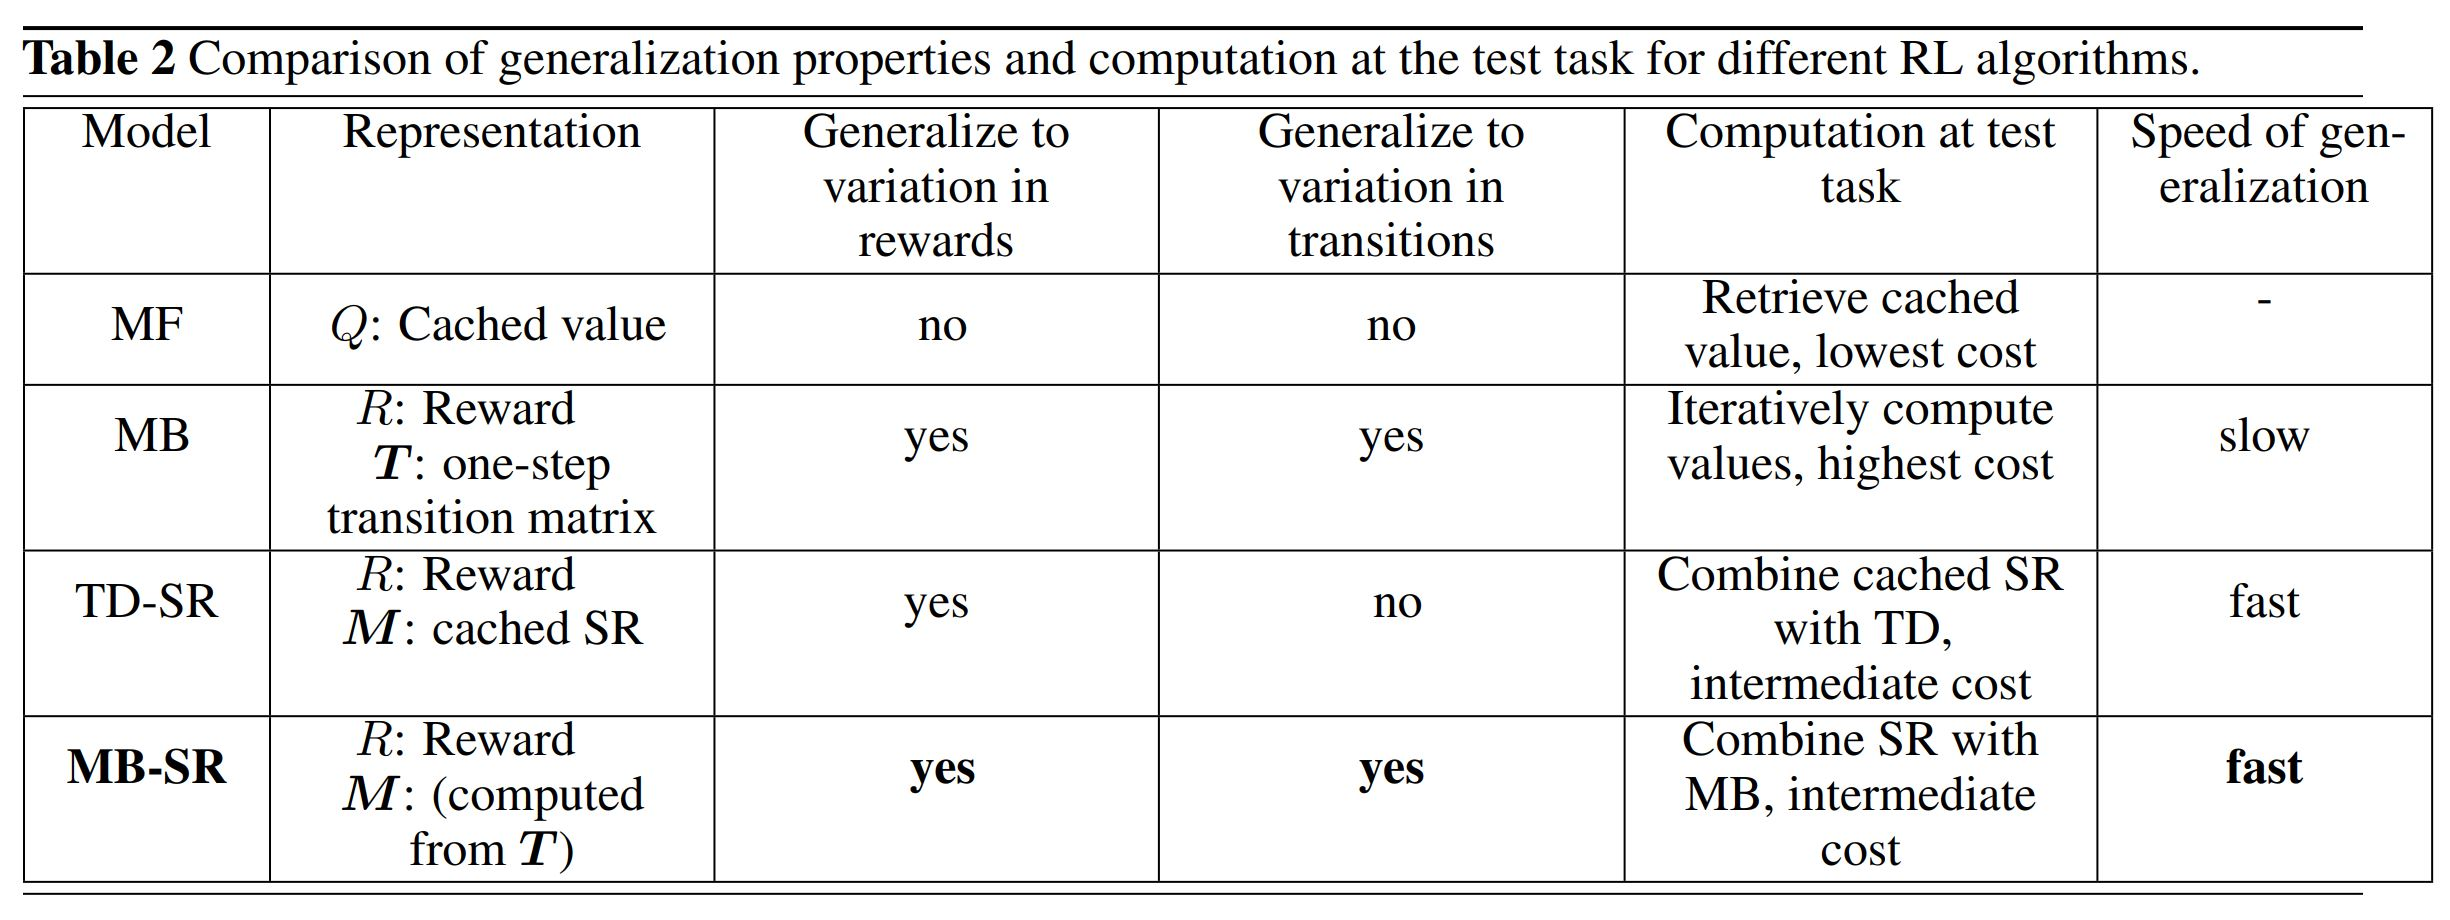
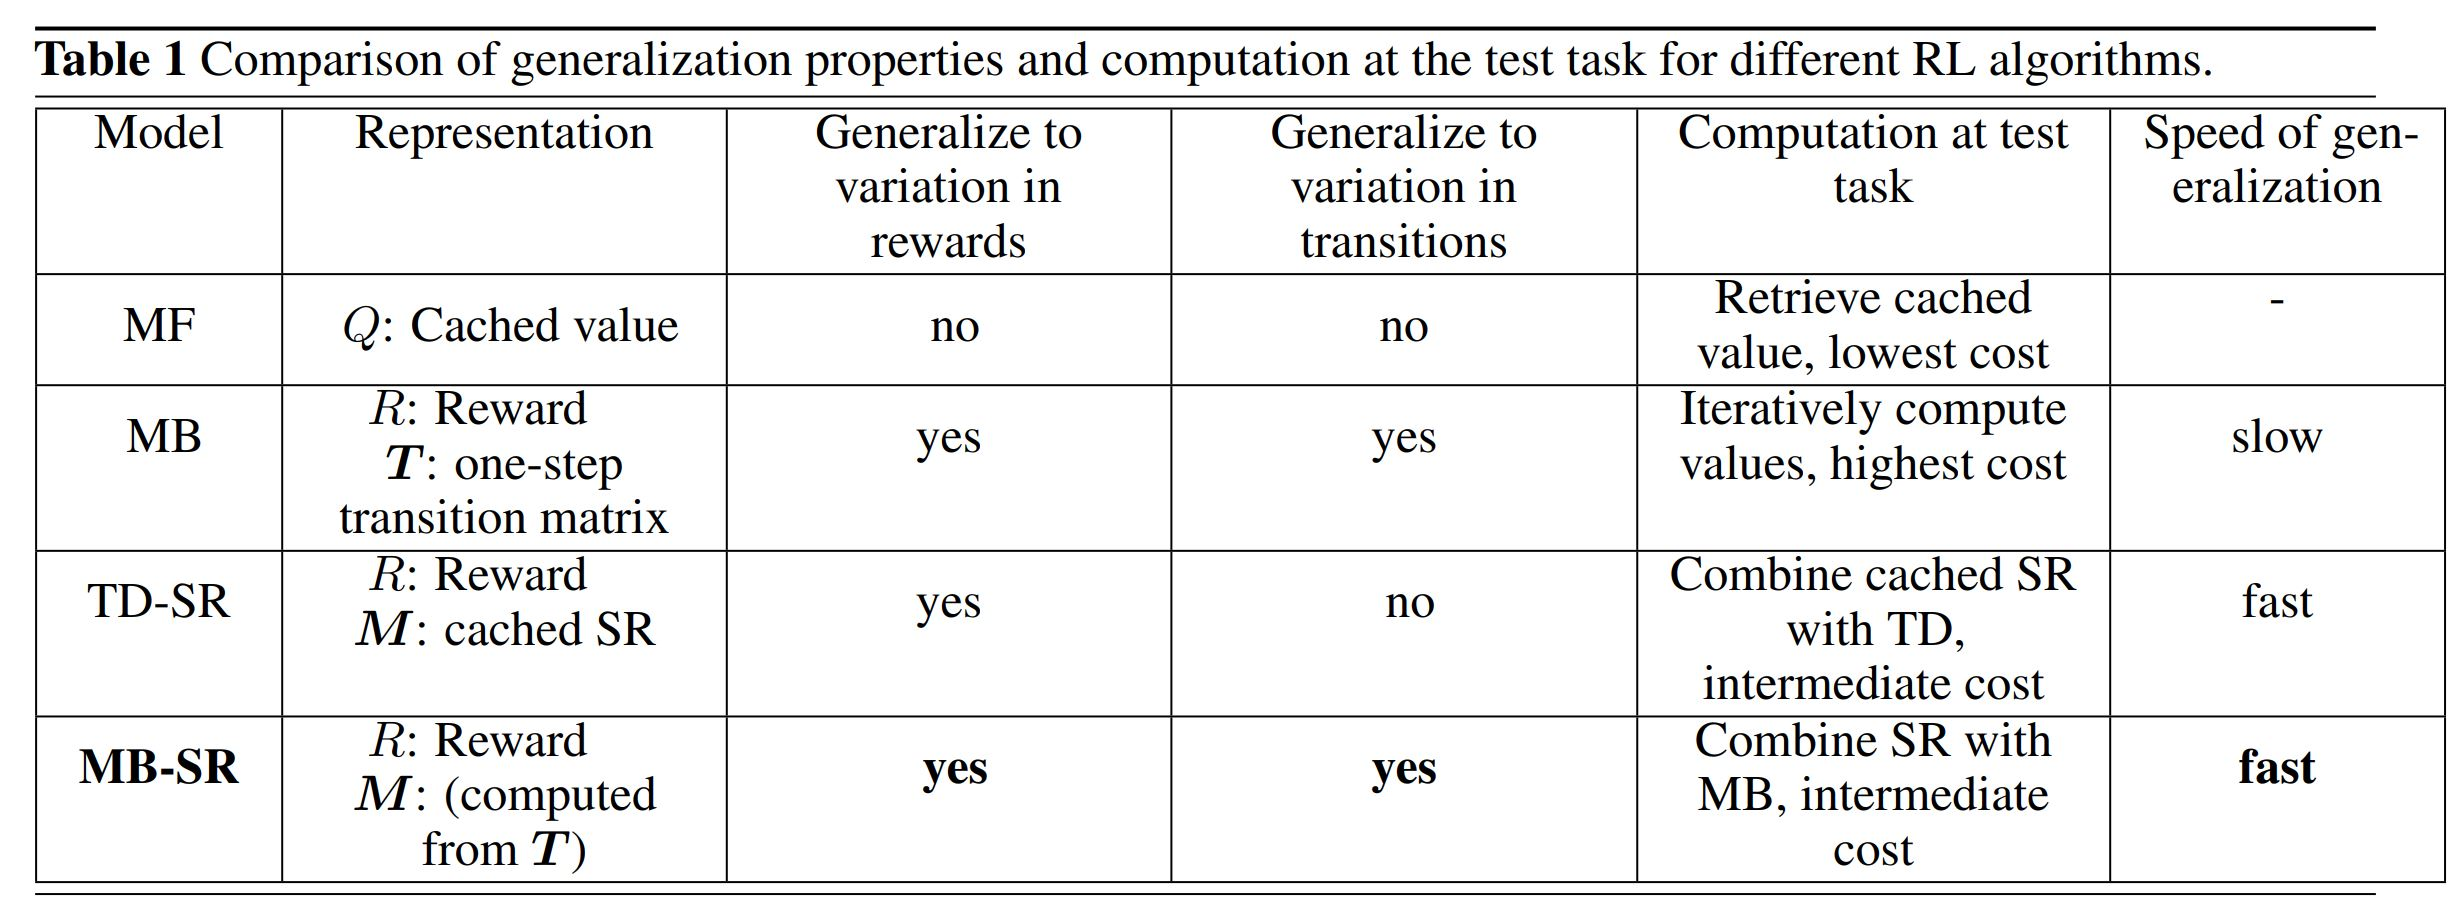
updating figures

diff --git a/AKF-SR/index.html b/AKF-SR/index.html
@@ -46,11 +46,11 @@
                                 <a href="https://pmalekzadeh.github.io">Parvin Malekzadeh</a><sup>1</sup>,</span>
                            
                                 <span class="author-block">
-                                <a>Mohammad Salimibeni</a><sup></sup>,</span>
+                                <a>Mohammad Salimibeni</a><sup>2</sup>,</span>
                             <span class="author-block">
                                 <a>Ming Hou</a><sup></sup>,</span>
                             <span class="author-block">
-                            <a>Arash Mohammadi</a><sup></sup>,</span>
+                            <a>Arash Mohammadi</a><sup>2</sup>,</span>
                             <span class="author-block">
                                 <a href="https://www.dsp.utoronto.ca/~kostas/">Konstantinos N.
                                     Plataniotis</a><sup>1</sup></span>
@@ -59,7 +59,9 @@
 
                         <div class="is-size-5 publication-authors">
                             <span class="author-block"><sup>1</sup>University of Toronto,</span>
+                            <span class="author-block"><sup>2</sup>Concordia University</span>
                             <br>Neurocomputing, 2022</span>
+                            
                         </div>
 
                         <div class="column has-text-centered">
@@ -110,7 +112,7 @@
             <div class="hero-body">
                 <figure poster="" id="tree" autoplay controls muted loop height="70%">
                     <!-- Your video here -->
-                    <img src="static/images/AKF-SR.jpg" alt="MY ALT TEXT" />
+                    <img src="static/images/AKF-SR2.jpg" alt="MY ALT TEXT" />
                 </figure>
                 <h2 class="subtitle has-text-centered">
                     Block diagram of the proposed AKF-SR framework.
@@ -198,20 +200,22 @@
                 and Universal Successor
                 Representations (USR) [2].
 
-                <figure>
-                    <img src="static/images/Inverted.JPG" alt="MY ALT TEXT" style="max-width: 70%;">
-                    <figcaption style=" text-align: center;"></figcaption>
-                </figure>
+                <div> <!-- Default block container for vertical stacking -->
+                    <figure>
+                        <img src="static/images/Inverted.JPG" alt="Inverted Pendulum"
+                            style="max-width: 70%; display: block; margin: auto;">
+                    </figure>
+                
+                    <figure>
+                        <img src="static/images/Car.JPG" alt="Autonomous Car" style="max-width: 70%; display: block; margin: auto;">
+                    </figure>
+                
+                    <figure>
+                        <img src="static/images/Lunar.JPG" alt="Lunar Lander" style="max-width: 70%; display: block; margin: auto;">
+                    </figure>
+                </div>
 
-                <figure>
-                    <img src="static/images/Car.JPG" alt="MY ALT TEXT" style="max-width: 70%;">
-                    <figcaption style=" text-align: center;"></figcaption>
-                </figure>
 
-                <figure>
-                    <img src="static/images/Lunar.JPG" alt="MY ALT TEXT" style="max-width: 70%;">
-                    <figcaption style=" text-align: center;"></figcaption>
-                </figure>
                 </p>
             </hr>
                 <p>

diff --git a/UaMB-SF/index.html b/UaMB-SF/index.html
@@ -106,17 +106,18 @@
     </section>
     <section class="hero teaser">
         <div class="container is-max-desktop">
-            <div class="hero-body">
-                <figure poster="" id="tree" autoplay controls muted loop height="70%">
-                    <!-- Your video here -->
-                    <img src="static/images/Block.JPG" alt="MY ALT TEXT" />
+            <div class="hero-body" style="text-align: center;"> <!-- Center content using text-align -->
+                <figure poster="" id="tree" autoplay controls muted loop height="70%"
+                    style="display: inline-block; width: 100%;"> <!-- Use display: inline-block for centering -->
+                    <img src="static/images/Block2.JPG" alt="MY ALT TEXT" style="max-width: 80%;" />
                 </figure>
                 <h2 class="subtitle has-text-centered">
-                    Visual Illustration of the proposed UaMB-SF framework.
+                    Visual illustration of the proposed UaMB-SF framework.
                 </h2>
             </div>
         </div>
     </section>
+
 
     <hr />
 
@@ -182,7 +183,7 @@
                     s<sub>3</sub> rather than s<sub>4</sub> after taking the optimal action realized for s3 in the source task
                     (i.e., moving right).
                     <figure>
-                        <img src="static/images/Motivate.JPG" alt="MY ALT TEXT" style="max-width: 40%;">
+                        <img src="static/images/Motivate2.JPG" alt="MY ALT TEXT" style="max-width: 80%;">
                                         <figcaption style=" text-align: center;"></figcaption>
                     </figure>
                     As illustrated by the motivating example, unlike MB-SR, TD-SR cannot instantly adapt the SR values for
@@ -201,11 +202,11 @@
     <section class="section">
         <div class="container is-max-desktop">
     
-            <h2 class="title is-3">Comparison with other RL methods</h2>
+            <h2 class="title is-3">Comparison with Other RL Methods</h2>
     
             <div class="content has-text-justified">
                 <p>
-                    Table 2 summarizes the generalization properties and computation required at test tasks for various RL algorithms.
+                    Table 1 summarizes the generalization properties and computation required at test tasks for various RL algorithms.
                 
                 <figure>
                     <img src="static/images/Table.JPG" alt="MY ALT TEXT" style="max-width: 100%;">
@@ -221,7 +222,7 @@
 
     <section class="section">
         <div class="container is-max-desktop">
-            <h2 class="title is-3">Validation of UaMB-SF adaptability to environmental changes</h2>
+            <h2 class="title is-3">Validation of UaMB-SF Adaptability to Environmental Changes</h2>
 
             <div class="content has-text-justified">
                 <p>

diff --git a/index.html b/index.html
@@ -142,7 +142,7 @@
       <tr>
         <td style="padding: 20px; width: 25%; vertical-align: top">
           <div class="one">
-            <a href="images/SF-MB.jpg" target="_blank"><img src="images/SF-MB.jpg" width="100%" /></a>
+            <a href="images/SF-MB2.jpg" target="_blank"><img src="images/SF-MB2.jpg" width="100%" /></a>
           </div>
         </td>
         <td style="padding: 20px; width: 95%; vertical-align: top">
@@ -194,7 +194,7 @@
         <td style="padding: 20px; width: 25%; vertical-align: top">
           <div class="one">
 
-            <a href="images/AKF-SR.jpg"><img src="images/AKF-SR.jpg" width="100%" /></a>
+            <a href="images/AKF-SR2.jpg"><img src="images/AKF-SR2.jpg" width="100%" /></a>
           </div>
 
         </td>
